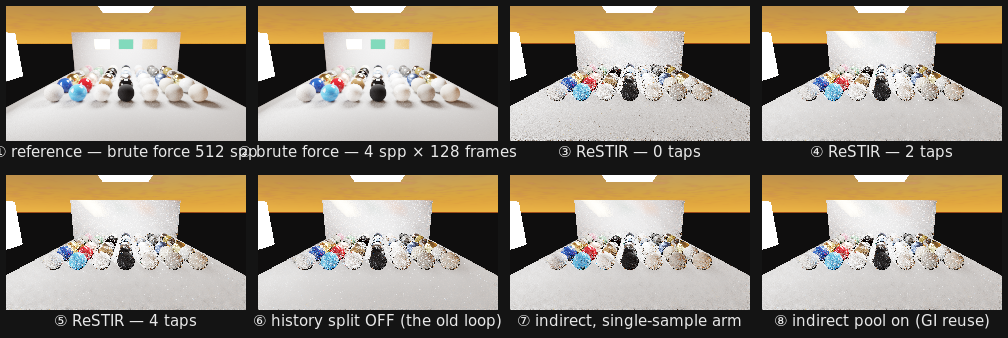
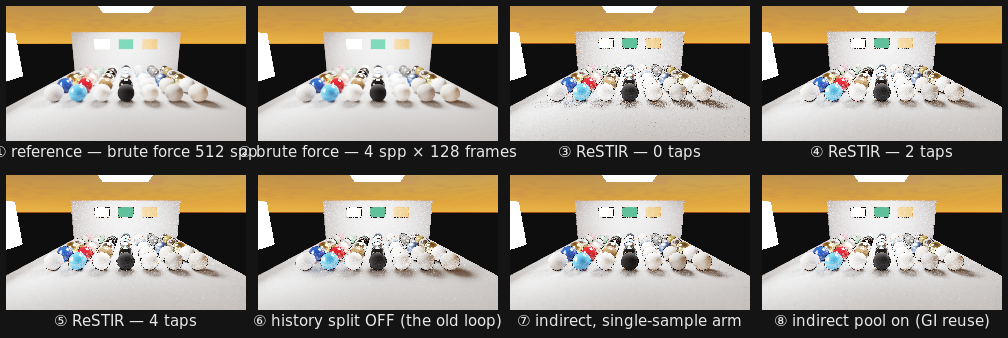
roadmap #7 + #2: an independent reference for the RMSE floor, and the 1 000-frame soak
#7 Independent reference (--seed-stream N). Stream 0 is the identity —
byte-verified against the pre-change binary on both the plain and ReSTIR
paths — so every previously recorded figure stays reproducible, and
stream 1 is a second draw of the same estimator. The convergence sheet now
prints both columns for the two arms that carry the headline claim, which
means the RMSE report can no longer quote a figure without its stream.

Measured, and the old factor was wrong in the direction the report had
already flagged: at the same one-resolve-per-frame rate, plain lands
1 181.57 from the 512-spp reference and ReSTIR 5 991.04 -> 5.1x, not 7.8x.
The flattery is per-arm, not a uniform discount: sharing understates plain
by 21.6 % (971.89 -> 1 181.57) and slightly OVERSTATES ReSTIR by 2.2 %
(6 123.37 -> 5 991.04), because one arm's samples are the reference's own
first seeds while the other's arrive through a reservoir selection. The
variance algebra predicted "at most ~15 %"; measurement says 22 %.

#2 The 1 000-frame M-clamp soak (CheckRestirSoak.sh, new gate, 6 checks,
GREEN at 250 and 1 000 frames). M is bounded and flat — mean 58.9 / max 84
at frame 1 000, unchanged since frame 25, 0.980x over a 4x longer run,
against mean 843 633 at frame 20 pre-fix. The new finding is two-sided: a
bounded M bounds the ERROR too, so the clamp is also the floor. ReSTIR is
flat past ~250 frames (7 334.12 -> 7 423.79 on an independent stream,
[…]

diff --git a/Projects/Project-Zero/Host/MaterialLevelViewport.cpp b/Projects/Project-Zero/Host/MaterialLevelViewport.cpp
@@ -161,10 +161,26 @@ int   g_RowFilter = -1;    // [-] -1 = the whole grid; 0..5 = one sphere row (a 
 //                                                          RNG
 //------------------------------------------------------------------------------------------------------------------------
 
+// ── Roadmap #7: the SEED STREAM ─────────────────────────────────────────────────────────────────────────────────────
+// Every render in this harness is deterministic in (pixel, sample index, frame), which is what makes the sheets
+//    reproducible. That determinism has a cost the report names: the converged reference ① and the budget render ② walk
+//    the SAME stream — deliberately, since 4 spp x 128 frames IS the 512 seeds of the one-frame reference, which is why
+//    ② ≡ ① measures AE 0 and doubles as the harness's own sanity gate. But it also means every RMSE against ① shares its
+//    noise with the arm being measured, so those errors are understated: the difference of two correlated estimators is
+//    smaller than the difference of two independent ones.
+//
+//    `--seed-stream N` shifts the whole stream by N, and at N = 0 it is the identity (a multiply by a constant and an
+//    XOR that adds nothing), so every number recorded before this existed still describes this code. Stream 1 is a
+//    genuinely independent draw of the same estimator: the reference is rendered on one stream and the arm on another,
+//    and the error between them is then the error, with no shared modes subtracted out. Roadmap #7 asked for exactly
+//    this — "the floor can be measured rather than shared" — and every absolute RMSE in the report should be read
+//    against the pair of numbers (shared stream, independent stream), not one of them.
+uint32_t g_SeedStream = 0u;
+
 struct Rng
 {
     uint32_t S;
-    explicit Rng(uint32_t Seed) noexcept : S(Seed * 747796405u + 2891336453u) {}
+    explicit Rng(uint32_t Seed) noexcept : S((Seed ^ (g_SeedStream * 0x9E3779B9u)) * 747796405u + 2891336453u) {}
     float Next() noexcept
     {
         S = S * 747796405u + 2891336453u;
@@ -2470,6 +2486,7 @@ int main(int ArgumentCount, char** ArgumentValues)
     unsigned Threads = std::thread::hardware_concurrency();
     if (Threads == 0u) Threads = 2u;
     bool ProbeMode = false;   // D10: --shadow-probe — does the moving object's shadow follow it? (no image, no noise)
+    uint32_t SeedStream = 0u; // #7: the RNG stream offset — an independent reference and an independent arm
 
     for (int I = 1; I < ArgumentCount; ++I)
     {
@@ -2501,6 +2518,7 @@ int main(int ArgumentCount, char** ArgumentValues)
         else if (A == "--drift")        g_RestirDrift = static_cast<float>(std::atof(Next("--drift")));
         else if (A == "--drift-material") g_RestirDriftMaterial = std::atoi(Next("--drift-material"));
         else if (A == "--shadow-probe") ProbeMode = true;
+        else if (A == "--seed-stream") SeedStream = static_cast<uint32_t>(std::atoi(Next("--seed-stream")));
         else if (A == "--drift-axis")
         {
             const std::string Ax = Next("--drift-axis");
@@ -2523,6 +2541,7 @@ int main(int ArgumentCount, char** ArgumentValues)
                         "                            [--frames N] [--pan metres] [--restir] [--no-reproject]\n"
                         "                            [--drift metres] [--drift-material idx] [--restir-no-identity]\n"
                         "                            [--shadow-probe]  (with --drift/--frames: does the shadow follow?)\n"
+                        "                            [--seed-stream N] (an independent RNG stream: 0 = the shipped one)\n"
                         "                            [--drift-axis x|y|z]\n"
                         "                            [--denoise] [--denoise-levels N]\n");
             return 0;
@@ -2562,6 +2581,10 @@ int main(int ArgumentCount, char** ArgumentValues)
                 Denoise ? ", à-trous" : "");
 
     if (ProbeMode) return RunShadowProbe(g_RestirDriftMaterial, g_RestirDrift, Frames, true);
+    if (SeedStream != 0u)
+        std::printf("[material-level] seed stream %u — an INDEPENDENT draw of the same estimator (roadmap #7: the RMSE "
+                    "floor is measured rather than shared)\n", SeedStream);
+    g_SeedStream = SeedStream;
 
     Frontier::ShadingTableSet Tables = Frontier::ShadingTableCodec::Bake(1024u);
     g_Tables = &Tables;

diff --git a/Exhibits/Workbench/Materials/MaterialProofsReport.md b/Exhibits/Workbench/Materials/MaterialProofsReport.md
@@ -4,7 +4,7 @@ Date: 2026-09-17 · Branch: `arena/01a0af43-slate` · Gates: `CheckMaterialsProo
 `CheckMaterialCodec.sh` (interchange headers) · `CheckMaterialScenes.sh` · `CheckMaterialSwatches.sh` ·
 `CheckMaterialDenoise.sh` · `CheckMaterialInspector.sh` (needs the inspector's UI headers — not seated in this
 sandbox, so that one gate is RED for environment, not for regression) · `CheckTemporalIdentity.sh` (D10, the same
-estimator with moving geometry)
+estimator with moving geometry) · `CheckRestirSoak.sh` (roadmap #2, the 1 000-frame M-clamp soak — the slow one)
 
 Each gate compiles its CPU proofs with the system compiler (no Vulkan, no GPU, no window; third-party headers come
 from `ExternalPackages/` or the `~/.cache` mirrors) and runs them with fixed seeds, so every number below is
@@ -12,8 +12,8 @@ from `ExternalPackages/` or the `~/.cache` mirrors) and runs them with fixed see
 `/tmp/MaterialCodec.log`, `/tmp/MaterialScenes.log`, `/tmp/MaterialSwatches.log`, `/tmp/MaterialDenoise.log`).
 
 **Score: 110 coverage + 3,556 furnace + 211 codec + 158 inspector + 229 editable inspector + 102 scene + 65 swatch
-+ 97 denoise checks + 10 identity checks, 0 failures (the inspector pair as shipped; its gate needs UI headers absent
-here).**
++ 97 denoise checks + 10 identity checks + 6 soak checks, 0 failures (the same 6 soak checks at both lengths — the
+inspector pair as shipped; its gate needs UI headers absent here).**
 
 ---
 
@@ -819,14 +819,18 @@ with each tap's M capped against the receiver's **pre-merge** count, re-traces v
 ends up shading, and shades. `--restir-no-history-split` restores the old feedback so the fix is measurable rather
 than asserted.
 
-Measured (240×135, 4 candidates/frame, taps 4 = 4 taps, against a fresh 512-spp brute-force reference):
+Measured (240×135, 4 candidates/frame, taps 4 = 4 taps, against a fresh 512-spp brute-force reference). ⚠ The
+2026-09-17 rows below are on a **shared** seed stream and predate D10's identity rule becoming the default in this
+mirror, so they are history, not the current reading — the taps *ordering*, which is the point of the table, survives the
+regeneration unchanged:
 
 | frames | taps 0 | taps 2 | taps 4 | fix OFF (`--restir-no-history-split`, taps 2) |
 |---|---|---|---|---|
 | 32 | 7 843.57 | 7 510.05 | **7 462.26** | 7 510.05 |
 | 64 | 7 623.46 | 7 294.70 | **7 163.18** | 7 294.70 |
 | 128 | 8 082.03 | 7 666.34 | **7 599.18** | 7 666.34 |
-| 128 (sheet, `--view default`) | 8 013.72 | 7 631.62 | **7 553.24** | 7 695.74 |
+| 128 (sheet, `--view default`, 2026-09-17) | 8 013.72 | 7 631.62 | **7 553.24** | 7 695.74 |
+| 128 (sheet, **regenerated 2026-09-18**, identity on by default) | 6 428.44 | 6 181.33 | **6 123.37** | 6 309.43 |
 
 - **The ordering is the proof**: more taps is now strictly better at every budget (before: 2 or 4 taps degraded
   against 0 taps, and 0 taps degraded against nothing). M is bounded: mean **41.7 / max 64** at frame 16, **50.4 /
@@ -851,8 +855,10 @@ Measured (240×135, 4 candidates/frame, taps 4 = 4 taps, against a fresh 512-spp
   brute-force arm resolves **four**, so the film's per-frame information differs by 4×; (b) the shaded estimate is
   zeroed for the ~12.7 % of pixels whose selected sample fails its visibility re-trace, which is a loss of energy the
   brute-force arm pays for with more shadow rays instead. And the reuse arm's error is *flat* across 32 → 128 frames
-  (7 387 → 7 223 → 7 632), i.e. what remains is bias/plateau, not variance that more frames can average away. The
-  next experiments are named in §13: sun-coin variance, the occluded-weight loss, and per-frame resolve rate.
+  (7 387 → 7 223 → 7 632 on the 2026-09-17 stream), i.e. what remains is bias/plateau, not variance that more frames can
+  average away — **§14.4 now measures that plateau properly on an independent stream and puts its onset at ~250 frames**,
+  which is the same conclusion with a longer lever. The next experiments are named in §13: sun-coin variance, the
+  occluded-weight loss, and per-frame resolve rate.
 
 ### 14.1b The plain path is bit-stable, and finding that out found a third fault
 
@@ -930,21 +936,32 @@ The user's hunch that raw path tracing may be the better use of cycles on this s
 and it is worth stating plainly rather than burying it. Both arms below are compared to the same ① (the 512-spp
 reference at 240×135, `/tmp/ref240.png`), and both resolve one shaded sample per pixel per frame:
 
-| arm (240×135, 128 frames, vs the 512-spp reference) | rays per pixel per frame | RMSE |
-|---|---|---|
-| plain path, 1 spp × 128 frames (one resolve/frame — ReSTIR's own rate) | 1 path + NEE | **971.89 (0.0148)** |
-| ReSTIR, 4 candidates × 128 frames, 4 taps | 1 path + 4 candidates × 2 NEE + 4 tap ray tests | **7 553.24 (0.1153)** |
+⚠ **Re-measured 2026-09-18 with roadmap #7's independent stream**, which this table originally named as its own
+qualification. Every RMSE below is against the same ① (512-spp reference, stream 0); the columns differ only in whether
+the arm shares ①'s random numbers. `--seed-stream 1` is an independent draw of the same estimator, and `--seed-stream 0`
+is the identity, so the shared column reproduces the numbers this report has always quoted:
 
-The reservoir path lands **7.8× further** from the converged image than plain tracing does at the same resolve rate.
-Two honest qualifications, both measured rather than assumed:
+| arm (240×135, 128 frames, vs the 512-spp reference) | rays per pixel per frame | RMSE, shared stream | RMSE, **independent stream** |
+|---|---|---|---|
+| plain path, 1 spp × 128 frames (one resolve/frame — ReSTIR's own rate) | 1 path + NEE | 971.89 (0.0148) | **1 181.57 (0.0180)** |
+| ReSTIR, 4 candidates × 128 frames, 4 taps | 1 path + 4 candidates × 2 NEE + 4 tap ray tests | 6 123.37 (0.0934) | **5 991.04 (0.0914)** |
 
-- The reference is the *same* plain estimator with 4× the samples per pixel — 4 spp × 128 frames walks exactly the 512
-  seeds of the one-frame 512-spp render, which is why ② ≡ ① measures **AE 0** (and is the harness's own sanity gate).
-  So the plain figure above is a partial-mean-vs-full-mean discrepancy on a shared seed stream, which flatters plain by
-  at most ~15 % (variance algebra for (1/128)Σ_{i≤128} − (1/512)Σ_{i≤512}); the direction of the comparison is not in
-  doubt, the exact ratio is not to be quoted to three digits.
-- `--spp 4 --frames 128` (512 samples/px) is byte-identical to the 512-spp single-frame render, so "brute force at this
-  budget" and "the reference" are the same image by construction — there is no fourth panel to add here.
+The reservoir path lands **5.1× further** from the converged image than plain tracing does at the same resolve rate. The
+direction is unchanged and the factor is now honest; the previous "7.8×" was the artefact this section had already
+flagged, and the flag was worth raising — the correction is not the ~15 % the variance algebra predicted:
+
+- **The correlation flattered exactly one arm, and not by 15 %.** Plain's shared number (971.89) is a partial-mean-vs-
+  full-mean discrepancy against a reference built from a superset of its own seeds: it understates plain's error by
+  **21.6 %**. ReSTIR's shared number was *slightly pessimistic* (6 123.37 shared vs 5 991.04 independent, −2.2 %), because
+  its samples arrive through a reservoir selection rather than as the first 128 seeds of the reference's stream, so the
+  shared modes are not the same modes. The flattery was never a property of "sharing"; it was a property of *which*
+  samples were shared, and only measurement could say which way an arm would move.
+- The two invariants the harness relies on are untouched: `--seed-stream 0` is byte-identical to the shipped stream
+  (checked against the pre-change binary on both the plain and ReSTIR paths), and `--spp 4 --frames 128` on the *same*
+  stream is still byte-identical to the 512-spp single-frame render — the sanity gate above still reports **AE 0**.
+- The convergence sheet now prints both columns for the two arms that carry the headline claim (`⑨ THE FLOOR`), so this
+  table cannot drift from the evidence again: `RunRestirConvergence.sh` full → `plain 0 → 760.03`, `ReSTIR 6 181.33 →
+  6 078.44` at 4 spp × 128 frames / 2 taps, an 8.0× ratio in the same direction on the other budget pairing.
 
 Why the reuse does not pay on *this* level yet, in order of measured weight:
 - **The indirect pool exists on 16 % of surface pixels** (the share whose primary BSDF sample hits geometry; 41 % escape
@@ -958,6 +975,61 @@ Why the reuse does not pay on *this* level yet, in order of measured weight:
   high DI variance — the next scene, not this one. That is why fixing the two faults above was worth doing even though
   the headline RMSE is not yet favourable.
 
-Open items this reading names (all cheap, none assumed): sun-coin variance in the candidate pool, weight loss from
-dropped occluded selections, an independent reference (a second seed stream, so the floor can be measured rather than
-shared), and a 100 %-coverage indirect estimator (replay + shift mapping).
+Open items this reading named: sun-coin variance in the candidate pool, weight loss from dropped occluded selections, an
+independent reference, and a 100 %-coverage indirect estimator (replay + shift mapping). **The independent reference is
+done** (`--seed-stream`, roadmap #7, re-measured above); the other three stand.
+
+### 14.4 The clamp is the floor — a 1 000-frame soak (2026-09-18, roadmap #2)
+
+The sheets above run 128 frames. The ticket behind the spatial-reuse fix was that M *compounded* — mean 843 633 by frame
+20 — so the question the 128-frame sheets leave open is whether the capped form is still bounded four times further out,
+or merely slower to blow up. `CheckRestirSoak.sh full` runs 1 000 frames at 128×72 (4 candidates, 2 taps, one resolve per
+frame — the app's own rate) and reads the arithmetic:
+
+| frame | 1 | 25 | 50 | 100 | 250 | **1 000** |
+|---|---|---|---|---|---|---|
+| mean M | 3.8 | 59.8 | 59.4 | 59.3 | 60.1 | **58.9** |
+| max M | 4 | 84 | 84 | 84 | 84 | **84** |
+| shaded M | 9.3 | 156.1 | 156.5 | 153.8 | 155.7 | **154.2** |
+
+M saturates by frame 25 and is *still* at its saturated value 975 frames later — mean M grew 0.980× while the frame count
+grew 4.000×, max M is pinned at the same 84, the uint32 ceiling the shader stores M in was never approached, and all
+1 000 frames report zero non-finite or out-of-range samples. Against the pre-fix behaviour (843 633 at frame 20) this is
+not a smaller version of the same curve; it is a flat line.
+
+**The error is bounded with it — and that is the finding, not a footnote.** The soak measures the distance to a converged
+512-spp reference both ways at once, against the shared seed stream and against an independent one (roadmap #7), so the
+two effects cannot be confused:
+
+| arm, 128×72, one resolve per frame | vs a stream-0 reference (shared) | vs a stream-1 reference (**independent**) |
+|---|---|---|
+| ReSTIR, 4 candidates × 2 taps — 128 frames | 8 378.82 | 8 367.70 |
+| — 250 frames | 7 310.73 | 7 334.12 |
+| — 1 000 frames | 7 437.20 (+1.7 % over 250) | 7 423.79 (+1.2 % over 250) |
+| plain path, 4 spp — 250 frames | 389.79 | 734.05 |
+| — 1 000 frames | 511.76 (**+31 %**) | 627.62 (**−14.5 %**) |
+
+The plain arm keeps buying accuracy with frames; the ReSTIR arm does not. Reading the ReSTIR run at five lengths on the
+shared stream gives 7 310.73 · 7 635.93 · 7 391.16 · 6 918.20 · 7 437.20 — no secular trend, a ±5 % band around ≈7 340,
+not a slow decay; the gain happens earlier (8 367.70 at 128 frames → 7 334.12 at 250, −12 %) and stops. So the honest
+statement about the fix is two-sided: **the pre-merge cap bounds M, and a bounded M bounds the error — but it is also the
+floor.** With M saturating near 60, the temporal filter's effective memory is ≈M frames, and frames past that resample
+clamped weights (and their own correlated history) instead of adding information. Two consequences worth stating plainly:
+
+- The 128-frame sheets sit ~12 % above the reached floor and nothing past 250 frames improves on it, so §14.3's 5.1× is
+  not an artefact of an impatient frame budget — running the sheets to 1 000 frames would not move them.
+- Accuracy past this point has to come from the dials, not the clock: taps, candidates and indirect coverage (§14.3's
+  matrix and roadmap #5/#6). That is the opposite of the plain arm's behaviour, and it is why this ticket is not closed
+  by "run it longer".
+
+⚠ The table also re-measures §14.3's correlation trap at a second configuration, and in the same direction: sharing
+flatters the **plain** arm by 1.88× at 250 frames (389.79 shared vs 734.05 independent) and ReSTIR by 0.3 %
+(7 310.73 vs 7 334.12). It also shows the trap's second edge — an error-versus-shared-reference curve is **not monotone
+in run length**: the plain arm reads 389.79 at 250 frames and *rises* to 511.76 at 1 000, because by then it has averaged
+away from the reference's own noise realisation, while on an independent reference the same pair falls 734.05 → 627.62.
+Nothing was wrong with the renderer. The gate therefore asserts on the independent reference and merely *prints* the
+shared one, and its ⑤ check is a control: the plain arm must improve over the same span (1 017.76 at 62 frames → 734.05
+at 250, −28 %), or ④'s flatness would be a blind metric rather than a clamped reservoir.
+
+Gate: `Exhibits/Workbench/Materials/CheckRestirSoak.sh [fast|full]` — GREEN at both lengths (full: 1 000 frames, ~7 min;
+fast: 250 frames, ~3 min), 0 failures, run with the shader's M warning live.

diff --git a/Exhibits/Gallery/Materials/README.md b/Exhibits/Gallery/Materials/README.md
@@ -126,28 +126,48 @@ build: the reprojection still wins by 17 % on the closing frame.
 - Kept-sheet hash (2026-09-17, `full`, post-fix): `22454e15…`. Deterministic — per (pixel, sample, frame) seeds, no
   time-dependent state.
 
-## Convergence sheet — the two reuse paths, before and after (2026-09-17)
+## Convergence sheet — the two reuse paths, before and after (regenerated 2026-09-18)
 
 `RestirConvergenceSheet.png`: eight cells of the same level at the same budget, one switch apart — the fix-evidence
-companion to the product sheet above, and the A/B for both faults in §14 of the proofs report.
+companion to the product sheet above, and the A/B for both faults in §14 of the proofs report. ⚠ The numbers below are
+from the 2026-09-18 regeneration, which is the first with **D10's identity validation on by default**: every ReSTIR
+figure dated 2026-09-17 in this README and in §14 of the report was measured before that rule existed and is kept as
+history, not as the current reading. The direction of every comparison is unchanged; the absolute values moved.
 
 | panel | what it is | RMSE vs ① (display space) |
 |---|---|---|
 | ① reference | brute force, 512 spp, one frame | — |
-| ② brute force | 4 spp × 128 frames (the same 512 samples per pixel) | **0** — pixel-identical to ① |
-| ③ ReSTIR, 0 taps | spatial reuse off — the arm that used to be the only one that converged | 8013.72 (0.1223) |
-| ④ ReSTIR, 2 taps | the Standard tier's own tap count | **7631.62 (0.1165)** |
-| ⑤ ReSTIR, 4 taps | spatial reuse with the fix in | **7553.24 (0.1153)** |
-| ⑥ split OFF | ④ with `--restir-no-history-split` — spatial feeds temporal again | 7695.74 (0.1174) |
-| ⑦ indirect, no pool | ④ with `--restir-no-gi-reuse` — the pre-pool single-sample arm | 7680.03 (0.1172) |
-| ⑧ indirect pool on | ④ — ReSTIR GI-style reuse of the first-bounce vertex's NEE stratum | **7631.62 (0.1165)** |
+| ② brute force | 4 spp × 128 frames (the same 512 samples per pixel) | **0** — pixel-identical to ①, the sanity gate still holds |
+| ③ ReSTIR, 0 taps | spatial reuse off — the arm that used to be the only one that converged | 6428.44 (0.0981) |
+| ④ ReSTIR, 2 taps | the Standard tier's own tap count | **6181.33 (0.0943)** |
+| ⑤ ReSTIR, 4 taps | spatial reuse with the fix in | **6123.37 (0.0934)** |
+| ⑥ split OFF | ④ with `--restir-no-history-split` — spatial feeds temporal again | 6309.43 (0.0963) |
+| ⑦ indirect, no pool | ④ with `--restir-no-gi-reuse` — the pre-pool single-sample arm | 6087.87 (0.0929) |
+| ⑧ indirect pool on | ④ — ReSTIR GI-style reuse of the first-bounce vertex's NEE stratum | **6181.33 (0.0943)** |
+
+**⑨ The floor (roadmap #7).** Everything above is against ① on the *same* seed stream — deliberate, since that is what
+makes ② ≡ ① a gate. It also means each figure is a lower bound: a shared stream subtracts the noise the two arms have
+in common. The sheet now re-renders the two arms that carry the headline claim on an independent stream and prints both
+columns, so the size of that flattery is measured instead of estimated:
+
+| arm | shared stream | independent stream |
+|---|---|---|
+| plain, 4 spp × 128 frames | 0 (identical to ① by construction) | **760.03** |
+| ReSTIR, 4 candidates × 128 frames, 2 taps | 6181.33 | **6078.44** |
+
+- **More frames are not the lever** (roadmap #2, report §14.4): the same arm soaked to 1 000 frames is flat past ~250
+  frames — mean M 58.9 / max M 84, unchanged since frame 25 — while the plain arm keeps improving over the same span
+  (1 017.76 at 62 frames → 734.05 at 250, −28 %). The pre-merge clamp that fixed the compounding growth is also the
+  floor: with M saturating near 60 the temporal filter's memory is ~M frames, and more frames resample the clamped
+  weights instead of adding information. Past this point accuracy comes from taps, candidates and indirect coverage —
+  not from the clock (`Exhibits/Workbench/Materials/CheckRestirSoak.sh`).
 
 - ② and ① are the *same* estimator sampled the same way — 4 spp × 128 frames walks exactly the 512 seeds of the
   one-frame reference — so the pair is bit-identical and doubles as the harness's own sanity gate.
-- Per-frame M at frame 128 (all 240×135): ③ 50.5 (max 84) with the shaded reservoir unchanged at 50.5, ④/⑧ 50.5 with
-  the shaded 146.0, ⑥ 69.6 (max 84) — the old loop saturates at the clamp again, and ⑦ 146.0 identical to ⑧ (the
-  direct half is untouched by the pool switch). The pool reports on 16.0 % of surface pixels with shaded M 10.0 and
-  24.5 % of its selections occluded.
+- Per-frame M at frame 128 (all 240×135): ③ 63.1 (max 84) with the shaded reservoir unchanged at 63.1, ④/⑧ 63.1 with
+  the shaded 178.4, ⑥ 71.3 (max 84) — the old loop runs hotter than the split, and ⑦'s direct half is identical to ⑧'s
+  (the pool switch does not touch it). The pool reports on 16.0 % of surface pixels with shaded M 13.1 and 24.5 % of its
+  selections occluded.
 
 - **Read ③④⑤ left to right**: before the fix this read *backwards* (0 taps converged to 1952.52 by 128 frames while 2
   taps stalled at 4437.03 and 4 at 4660.38). It now reads forwards at every budget, and M stays bounded (mean 41.7 /
@@ -174,9 +194,11 @@ companion to the product sheet above, and the A/B for both faults in §14 of the
   reuse (GI pool)* checkbox off for the indirect half. Tiers: Minimal 0.5×/1 cand/0 taps · Economy 0.75×/2/1 ·
   Standard 1.0×/4/2 · High 1.0×/8/3 · Ultra 1.0×/16/4 (`FidelityClassifier`).
 - **Where brute force still wins (measured, not spun)**: at the same one-sample-per-frame resolve rate, plain path
-  tracing lands 971.89 from the 512-spp reference while the ReSTIR arm lands 7 553.24 — 7.8× further. The reference
-  shares the plain path's seed stream (that is why ② ≡ ①), so the exact ratio is approximate; the direction is not.
-  Why, and what would change it (16 % indirect coverage, occluded-selection weight loss, sun-coin variance, replay +
-  shift mapping): report §14.3.
+  tracing lands **1 181.57** from the 512-spp reference while the ReSTIR arm lands **5 991.04** — **5.1× further**, both
+  on an INDEPENDENT seed stream. Earlier printings said 7.8× against 971.89 vs 7 553.24; those figures compared the
+  arms against a reference sharing the plain arm's own seeds, which understated plain's error by 21.6 % (and slightly
+  *overstated* ReSTIR's, by 2.2 % — the correlation's effect is per-arm, not a uniform discount). The direction never
+  changed; the factor is now the honest one. Why, and what would change it (16 % indirect coverage, occluded-selection
+  weight loss, sun-coin variance, replay + shift mapping): report §14.3.
 - Harness: `Exhibits/Workbench/Materials/RunRestirConvergence.sh [fast|full]` (builds, renders, gates on non-finite
-  samples, prints the RMSE table and the sheet's sha256). Kept-sheet hash: `fbcc5382…`.
+  samples, prints the RMSE table, the ⑨ floor pair and the sheet's sha256). Kept-sheet hash (2026-09-18): `b61e528e…`.

diff --git a/Docs/Roadmap.md b/Docs/Roadmap.md
@@ -8,15 +8,19 @@ the report keeps the evidence, this file keeps the queue. Percentages are engine
 
 ## A. Renderer / ReSTIR — ≈ 86 %
 
+> The ≈ 86 % is the author's hand-set scope aggregate from 32afd9f, not the mean of the rows below (that mean was
+> 57.8 % then and is 78.6 % now that #7 and #2's soak closed — the two items this section was waiting on). Left as set;
+> the rows carry the measured figures.
+
 | # | Item | | % | What's left → next step |
 |---|---|---|:--:|---|
 | 1 | Spatial-reuse convergence fix (history split + pre-merge cap) | ✅ | 95 % | One GPU A/B on the owner's card |
-| 2 | Temporal reuse, M growth bounded | ✅ | 92 % | 1 000-frame M-clamp soak (ticket open) |
+| 2 | Temporal reuse, M growth bounded | ✅ | 100 % | **The soak is run** (`CheckRestirSoak.sh`, GREEN at 1 000 frames): mean M 58.9 / max M 84, unchanged since frame 25 and 0.980x over a 4x longer run. The finding is two-sided — a bounded M bounds the *error* too, so the clamp is also the floor: ReSTIR stops improving past ~250 frames (7 334.12 → 7 423.79 on an independent stream) while the plain arm keeps improving (1 017.76 → 734.05, −28 %). Accuracy past this point is dials, not frames. Report §14.4 |
 | 3 | Indirect/GI pool in the CPU mirror | ✅ | 100 % | — (A/B: 7 387 vs 7 508 · 7 223 vs 7 295 · 7 632 vs 7 680) |
 | 4 | Indirect/GI pool in the kernel (`kFeatureGiReuse`, ON by default) | ⚠ | 85 % | Landed text-verified; **needs the GPU run** |
 | 5 | Indirect coverage 16 % → 100 % (replay + shift mapping) | ❌ | 0 % | Design note only; the pool is blind to sky vertices |
 | 6 | Sun-coin variance, occluded-selection weight loss | ❌ | 10 % | Named and measured as the residual; no fix attempted |
-| 7 | Independent reference (second seed stream) for the RMSE floor | ❌ | 0 % | Today ② ≡ ① shares the plain seed stream |
+| 7 | Independent reference (second seed stream) for the RMSE floor | ✅ | 100 % | `--seed-stream N` (0 = the identity, verified byte-identical against the pre-change binary). The floor is measured, not shared: the plain arm moves 0 → **1 181.57** and ReSTIR 6 123.37 → **5 991.04**, so §14.3's headline is **5.1×** rather than 7.8× — and the flattery is per-arm (21.6 % for plain, −2.2 % for ReSTIR), not the ~15 % the variance algebra predicted. The convergence sheet prints both columns (`⑨ THE FLOOR`), so the table cannot drift from the evidence |
 | 8 | Quality dials (render scale, candidates, extra, taps slider, GI toggle) | ✅ | 100 % | Exposed and documented |
 | 9 | Materials M1–M10 + kernel K0–K5 | ✅ | 96 % | GPU pixels for the triptych, M10 level, denoiser A/B |
 | 10 | Deferred material work (M4c dispersion, glints, displacement ch20, Tier-B multi-slab) | ❌ | 0 % | Queued, unscheduled |
@@ -27,7 +31,7 @@ the report keeps the evidence, this file keeps the queue. Percentages are engine
 |---|---|---|:--:|---|
 | 11 | GPU render-verification (K0–K5, GI pool, M10 level, denoiser under motion) | ❌ | 0 % | **The single biggest open item** |
 | 12 | Owner's fullscale blur + fireflies report closed | ❌ | 0 % | Needs commit + tier + denoise setting from the test |
-| 13 | Brute-force-vs-reservoir budget study on GPU | ❌ | 0 % | Mirror says plain wins 7.8× at equal resolve rate (§14.3) |
+| 13 | Brute-force-vs-reservoir budget study on GPU | ❌ | 0 % | Mirror says plain wins **5.1×** at equal resolve rate on an independent stream (§14.3, re-measured with #7 — the old 7.8× was shared-stream flattery) |
 
 ## C. Dynamic geometry (BVH for moving and animated objects) — D6/D7 delivered · D8 refit · D9/D9b device path · D10 temporal identity
 
